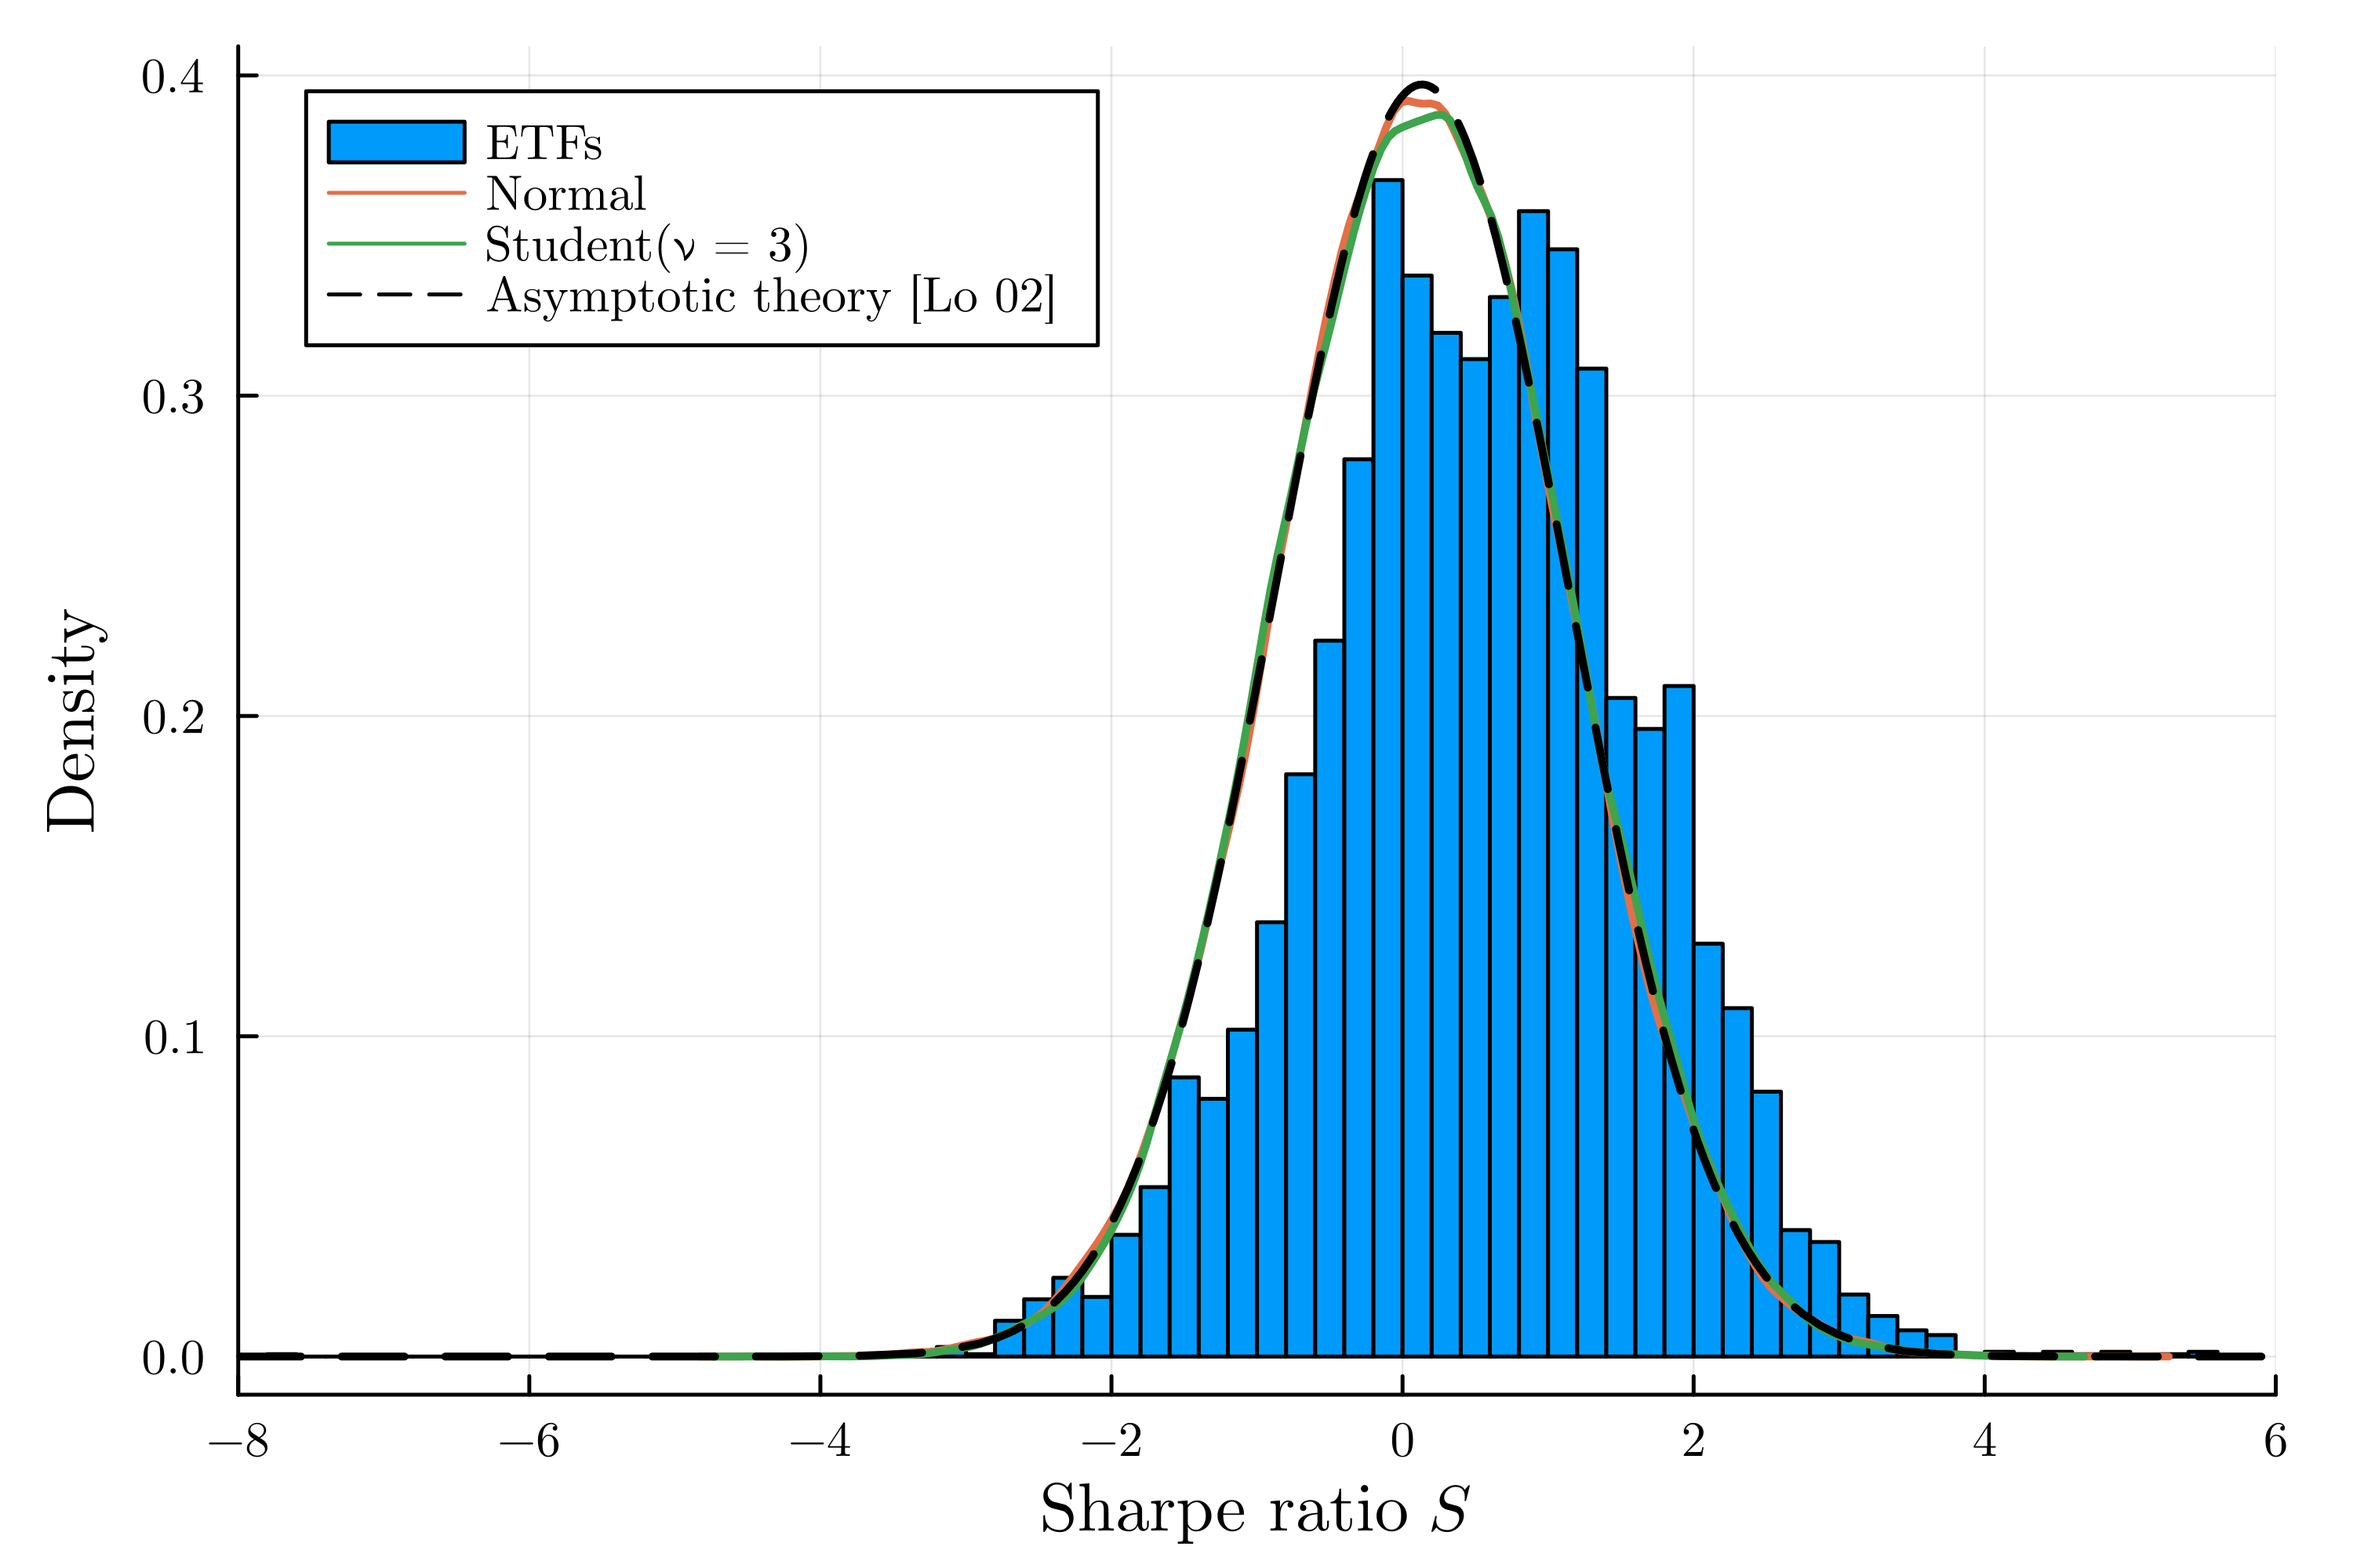
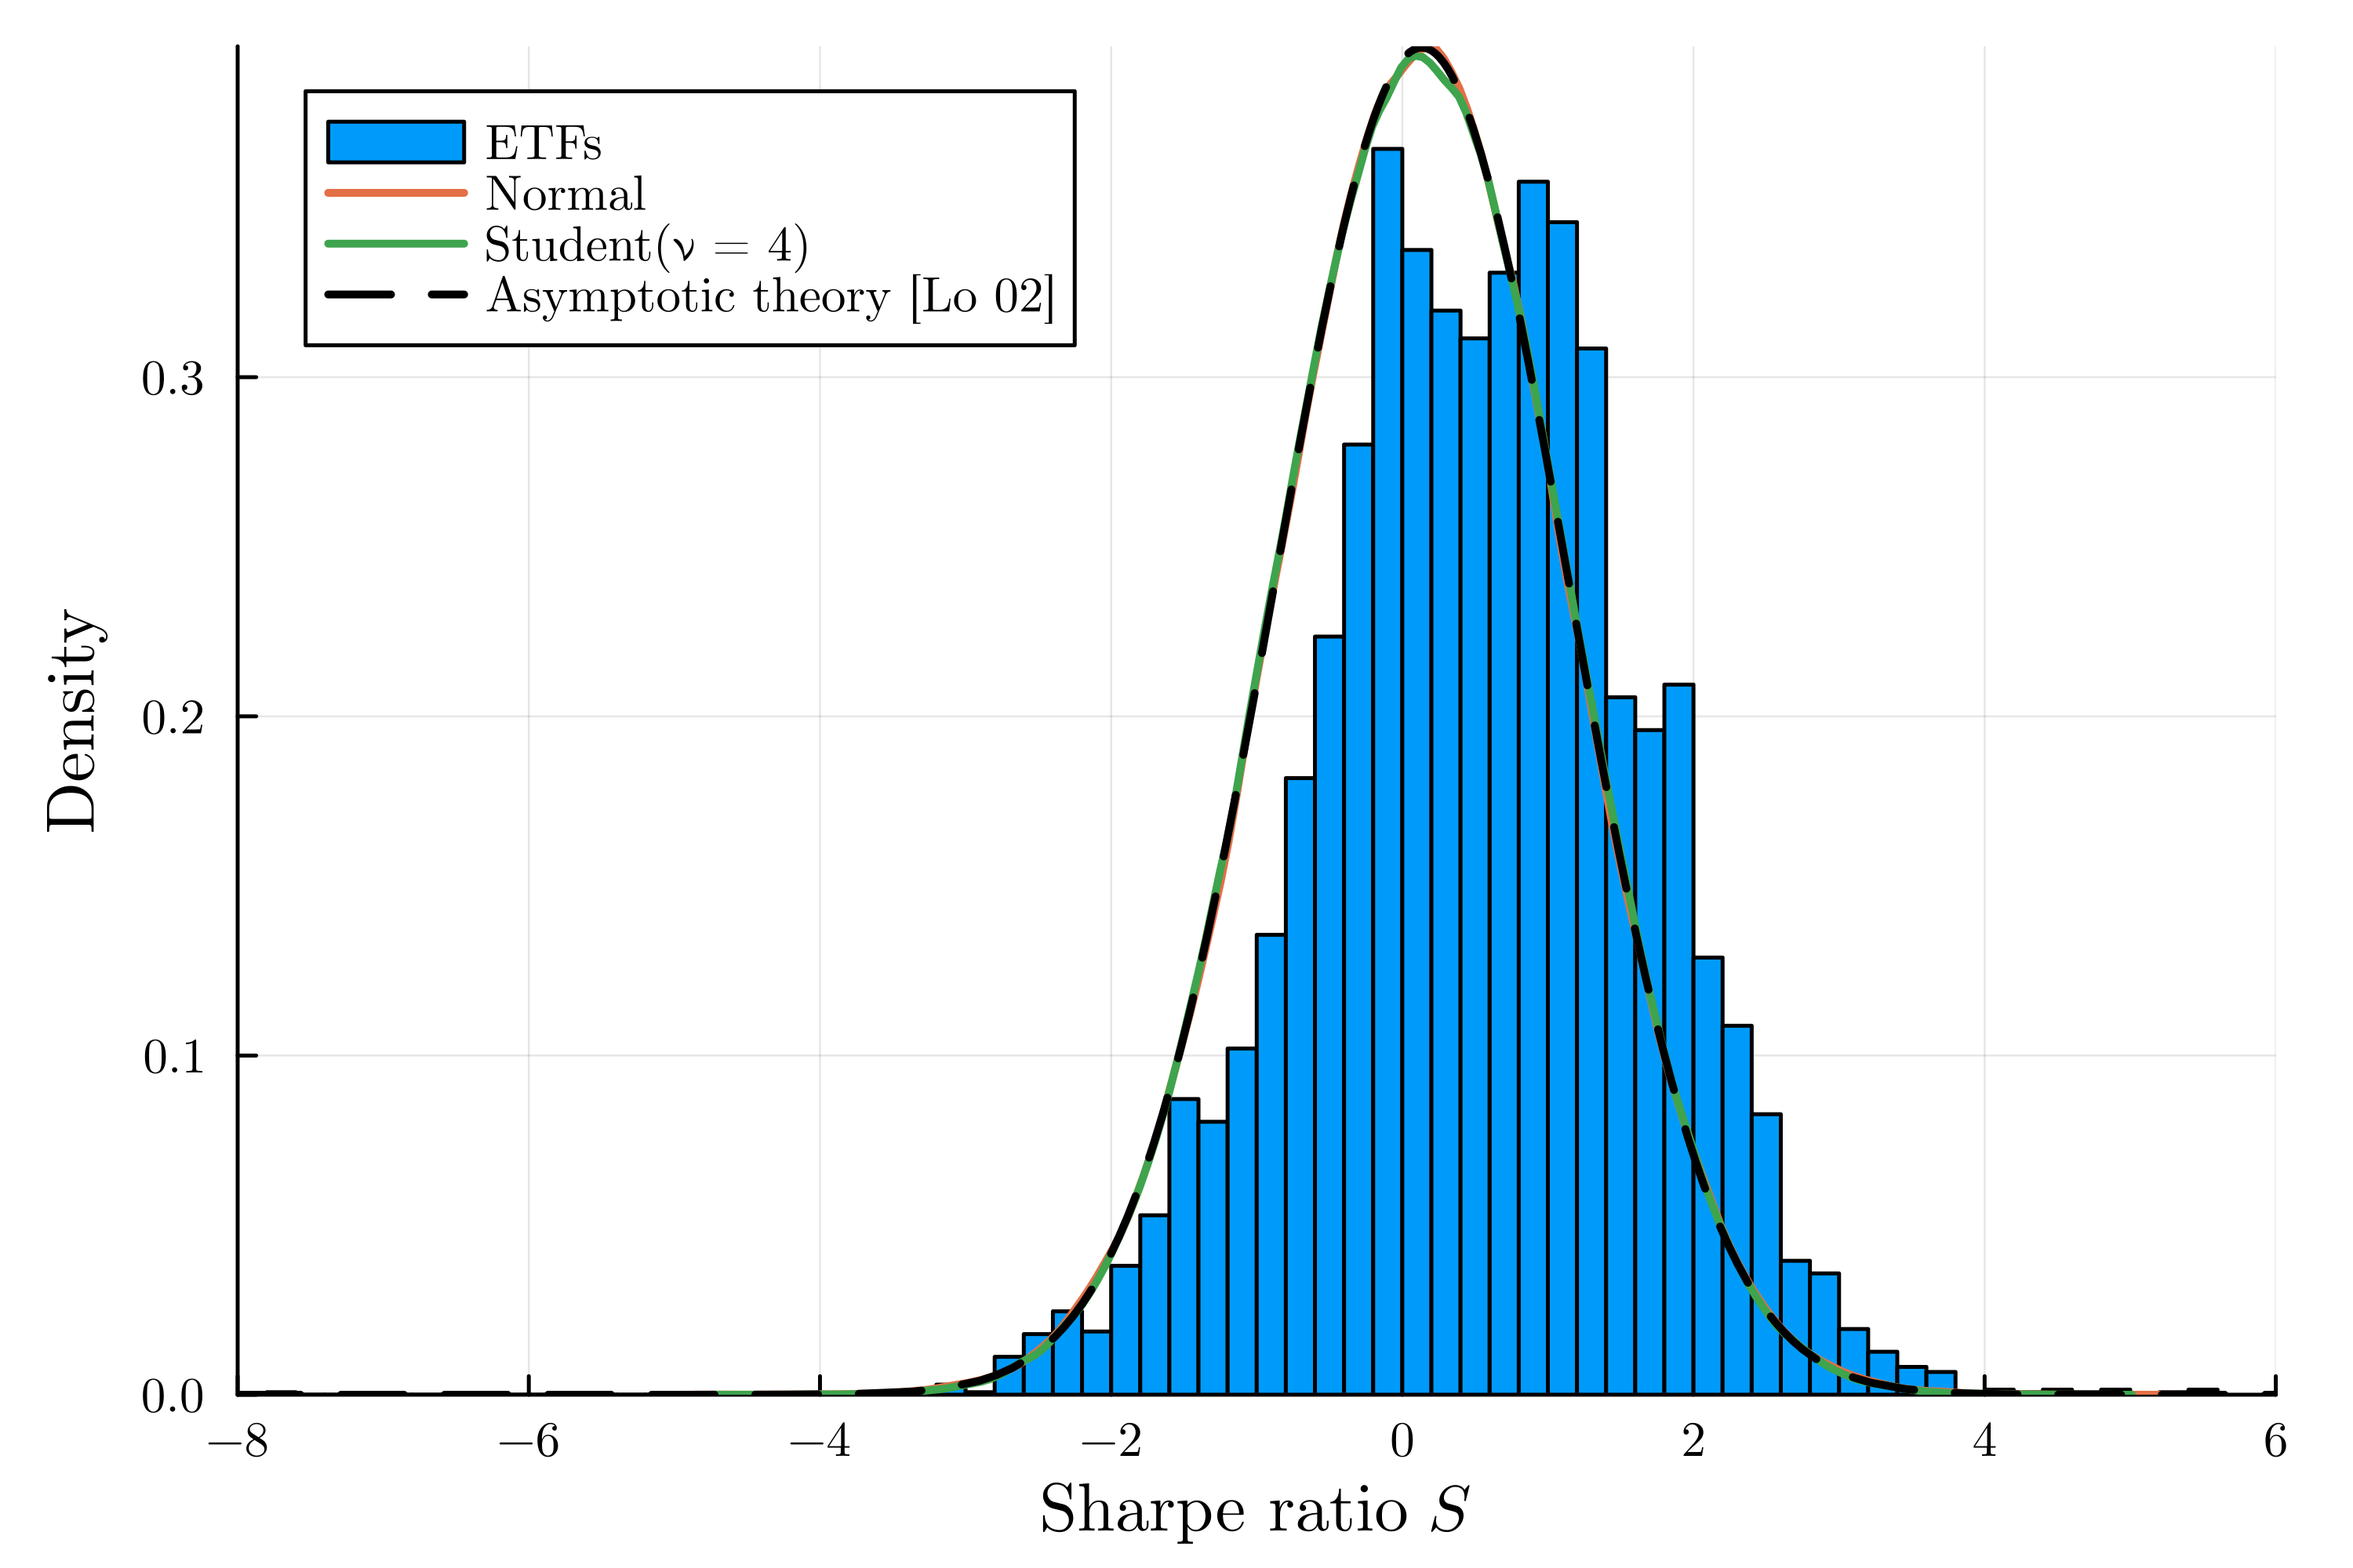
editing draft

diff --git a/arxiv/great-year-bad-sharpe.tex b/arxiv/great-year-bad-sharpe.tex
@@ -16,10 +16,10 @@ aps,
 
 \begin{abstract}
     Returns distributions are heavy-tailed across asset classes. 
-    In this note, I examine the implications of this stylized fact for the joint statistics of performance and risk-adjusted return. 
-    Using both synthetic and real data, I show that the Sharpe ratio does not increase monotonically with performance: in a sample of price trajectories with the same distribution of returns, the largest Sharpe ratios are associated with suboptimal mean returns; conversely, the best performance never corresponds to the largest Sharpe ratios. 
-    This counter-intuitive effect is unrelated to the risk-return tradeoff familiar from portfolio theory: it is a consequence of asymptotic correlations between the sample mean and sample standard deviation of heavy-tailed variables (which are absent in the Gaussian case). 
-    In addition to its very large sample noise, the non-monotonic association of the Sharpe ratio with performance puts into question its status as the gold standard of investment quality. 
+    In this note, I examine the implications of this well-known stylized fact for the joint statistics of performance (absolute return) and Sharpe ratio (risk-adjusted return). 
+    Using both synthetic and real data, I show that, all other things being equal, the investments with the best in-sample performance are never associated with the best in-sample Sharpe ratios (and vice versa). 
+    This counter-intuitive effect is unrelated to the risk-return tradeoff familiar from portfolio theory: it is, rather, a consequence of asymptotic correlations between the sample mean and sample standard deviation of heavy-tailed variables. 
+    In addition to its large sample noise, this non-monotonic association of the Sharpe ratio with performance puts into question its status as the gold standard metric of investment quality. 
  \end{abstract}
 
 \maketitle 
@@ -28,19 +28,18 @@ aps,
 
 Of two investments with comparable returns, the one with lower volatility is more desirable. 
 From this commonsense observation derives the notion of risk-adjusted returns as target for optimization. 
-This logic is formalized in Markowitz's ``modern portfolio theory'', where a portfolio is considered efficient if it maximizes the Sharpe ratio (mean return)/(volatility). 
-In practice, risk-adjusted performance measures, of which the Sharpe ratio is the most common, are routinely used to benchmark and select funds, compensate their managers, etc.
+This logic is formalized in Markowitz's ``modern portfolio theory'', wherein a portfolio is considered efficient if it maximizes the Sharpe ratio (mean return)/(volatility). 
+In practice, Sharpe ratios or similar risk-adjusted performance measures are routinely used to benchmark and select funds, compensate their managers, etc.
 
 From a statistical perspective, the Sharpe ratio is simply the coefficient of variation of excess returns. 
 Assuming returns with finite variance, its sampling distribution can be described with standard asymptotic theory \cite{loStatistics2002}. 
 However, precisely because investors are focused on maximizing their Sharpe ratio, it interesting to ask not just about the center of its sampling distribution, but also about its tails. 
 What kind of events lead to large deviations of the Sharpe ratio? 
 
-The purpose of this note is to examine the tails of the joint sampling distribution of performance (mean return) and risk-adjusted return (Sharpe ratio) of funds.
+The purpose of this note is to examine the tails of the joint sampling distribution of performance and Sharpe ratio of funds.
 A natural expectation is that the Sharpe ratio takes the largest values along prices trajectories with exceptionally large returns.
-I show that this expectation is true in a Gaussian world, but false when returns are heavy-tailed, a well-known feature of empirical returns \cite{bouchaudTheory2003}. 
-In particular, I show that, with heavy-tailed returns, the strategies with the largest Sharpe ratios never maximize long-term performance, and strategies with exceptional performance are associated with suboptimal Sharpe ratios. 
-We might call this counter-intuitive phenomenon the ``great returns, bad Sharpe'' effect. 
+I show that this expectation would be true in a Gaussian world, but is false when returns are heavy-tailed \cite{bouchaudTheory2003}. 
+In particular, I show that, with heavy-tailed returns, the strategies with the largest Sharpe ratios never maximize long-term performance, and strategies with exceptional performance are always associated with suboptimal Sharpe ratios. 
 
 Two cautionary remarks. 
 First, the present study is strictly about in-sample statistics: we do not consider issues of prediction or out-of-sample validity.  
@@ -51,10 +50,10 @@ Second, the relationship between performance and risk-adjusted returns discussed
 \subsection{Definitions}
 
 Let us begin with some definitions and assumptions.
-We consider an asset or strategy with price $p_t$ and log-returns at time resolution $\tau$ by $r_t = \log(p_t/p_{t-\tau})$.
-We suppose that a riskfree asset provides returns at rate $r_0$, and denote $\eta_t = r_t - \xi_0$ the excess log-return. 
+Consider an asset or strategy with price $p_t$ and log-returns at time resolution $\tau$ by $r_t = \log(p_t/p_{t-\tau})$.
+Suppose that a riskfree asset provides returns at rate $r_0$, and denote $\eta_t = r_t - \xi_0$ the excess log-return. 
 (Henceforth $\eta_t$ will be called \emph{return} for short.)
-We assume $\eta_t$ are independent and drawn from a common distribution $\mathcal{D}$ with mean $\mu$ and standard deviation $\sigma$. 
+Assume furthermore that $\eta_t$ are independent and drawn from a common distribution $\mathcal{D}$ with mean $\mu$ and standard deviation $\sigma$. 
 
 \begin{figure}[t!]
     \includegraphics[width = .45\textwidth]{sharpe-dist.png}
@@ -73,7 +72,7 @@ Given its performance $m$ and volatility $s$, the \emph{Sharpe ratio} of the str
 \end{equation}
 This ratio is approximately invariant with respect to $T$, and can be interpreted as a signal-to-noise ratio (signal $=mT$, noise $=s\sqrt{T}$). When $T$ is large ($T = 252$ for daily returns), the sampling distribution of $S$ is asymptotically Gaussian, with standard error $\Delta S = (1+S^2/2)^{1/2}$ \cite{loStatistics2002} (see Fig. \ref{sharpe-dist}).
 
-Strictly related measures of risk-adjusted return include the information ratio (where the reference rate $r_0$ is the market rate), the Sortino ratio (where $s$ is replaced by the downside risk), and the Treynor ratio (where $s$ is replaced by $\beta$). These give similar results and we do not discuss them here.  
+Related measures of risk-adjusted return include the information ratio (where the reference rate $r_0$ is the market rate), the Sortino ratio (where $s$ is replaced by the downside risk), and the Treynor ratio (where $s$ is replaced by $\beta$). These give similar results and we do not discuss them here.  
 
 
 \begin{figure}[t!]
@@ -89,19 +88,17 @@ We consider daily returns data of two kinds. First, we generate synthetic return
     \eta \sim \mu + \sigma\sqrt{(\nu - 2)/\nu}\, \xi,
 \end{equation}
 where $\xi$ follows a Student $t$ distribution with $\nu$ degrees of freedom. (The associated probability density function reads has tail behavior $p(\eta; \nu)\sim_{\eta\to\pm\infty} 1/\vert\eta\vert^{\nu + 1)}$.) 
-Empirically, the tail index of daily returns is found to be $\nu\simeq 3$ (see Ref. \cite{bouchaudTheory2003} and references therein); in the limit $\nu\to\infty$ a Gaussian distribution is recovered. 
+Empirically, the tail index of daily returns is found to be $\nu\simeq 4$ (see Ref. \cite{bouchaudTheory2003} and references therein); in the limit $\nu\to\infty$ a Gaussian distribution is recovered. 
 
 We also consider a public dataset of the adjusted close price of exchange traded funds (ETFs) spanning the period 1995-2019 and multiple categories (equities, commodities, short-term bonds, etc.) \cite{leoneUS}. 
 To compute excess returns we use as riskfree rate $r_0$ the market yield on 1-year T-bills (the RIFLGFCY01NA ticker from FRED), plotted in Fig. \ref{riskfree-rate}. 
 
-The agregate distribution of daily returns of these ETFs is shown in Fig. \ref{returns-dist}, together with the density of a Student distribution with $\nu =3$ and a Gaussian distribution with the same mean $\mu$ and standard deviation $\sigma$. 
+The agregate distribution of daily returns of these ETFs (normalized by their long-term volatility $\sigma$) is shown in Fig. \ref{returns-dist}, together with the density of a Student distribution with $\nu =4$ and a Gaussian distribution with the same mean and standard deviation. 
 As expected, the Student distribution fits ETF returns well, while the Gaussian clearly does not. 
 
-In the following, we fix $\mu = 1.45\cdot 10^{-4}$, $\sigma = 1.73\cdot 10^{-2}$, corresponding to the empirical mean and standard deviation of daily ETF returns. 
-
 \begin{figure}[t!]
-    \includegraphics[width = .45\textwidth]{returns-dist.png}
-    \caption{Distribution of daily excess returns $\eta_t$ for $1,608$ ETFs, together with Student and Gaussian densities with the same mean $\mu = 1.45\cdot 10^{-4}$ and standard deviation $\sigma = 1.73\cdot 10^{-2}$.}
+    \includegraphics[width = .45\textwidth]{returns-vol-scaled-dist.png}
+    \caption{Distribution of daily excess returns (normalized by their average volatility) $\eta_t$ for $1,608$ ETFs, together with Student and Gaussian densities with the same mean and standard deviation.}
     \label{returns-dist}
 \end{figure}
 
